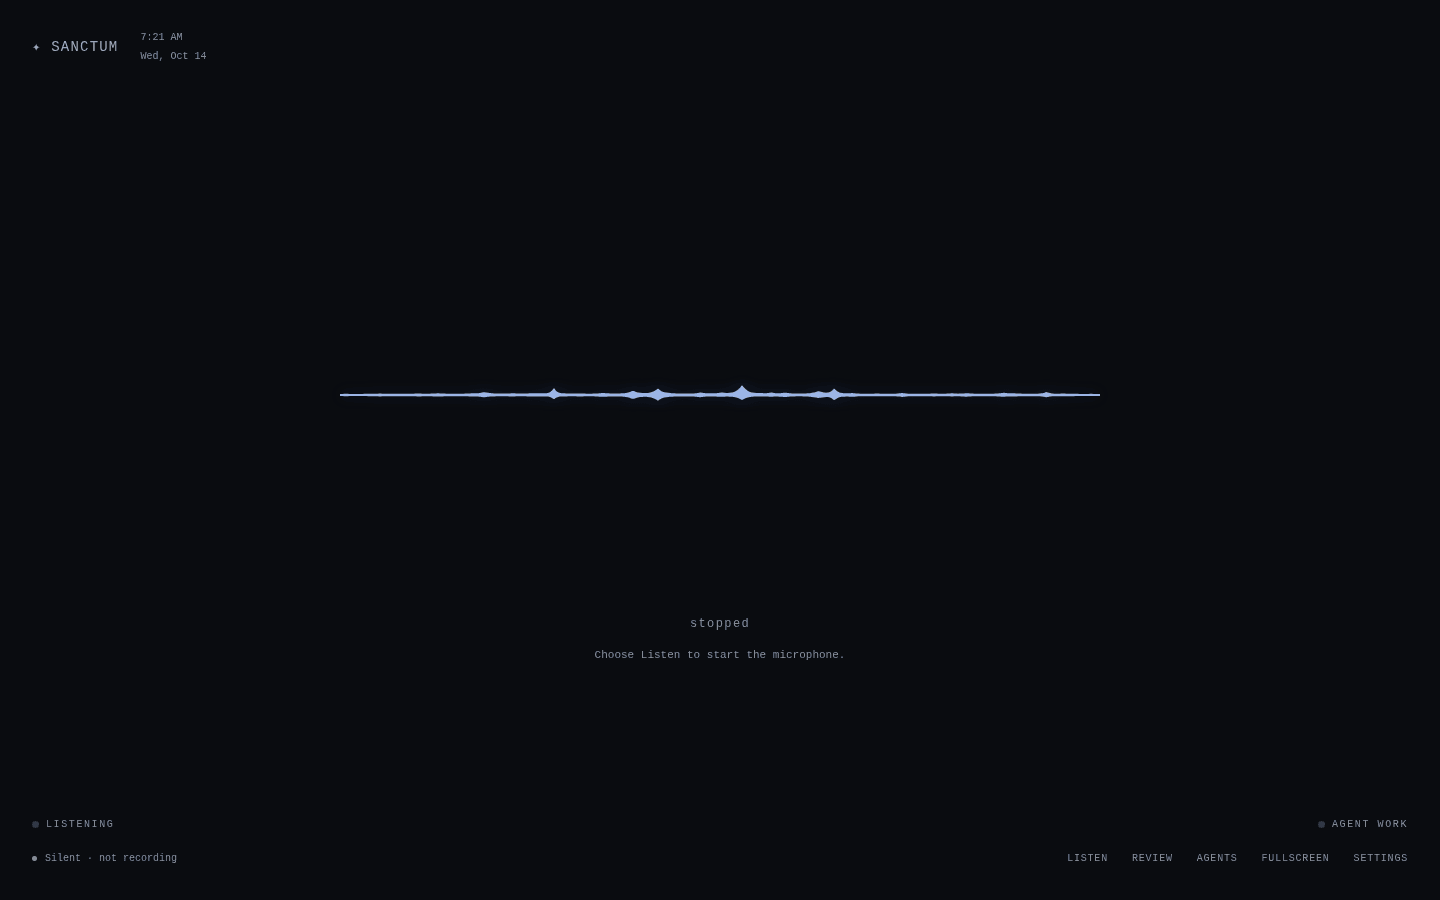
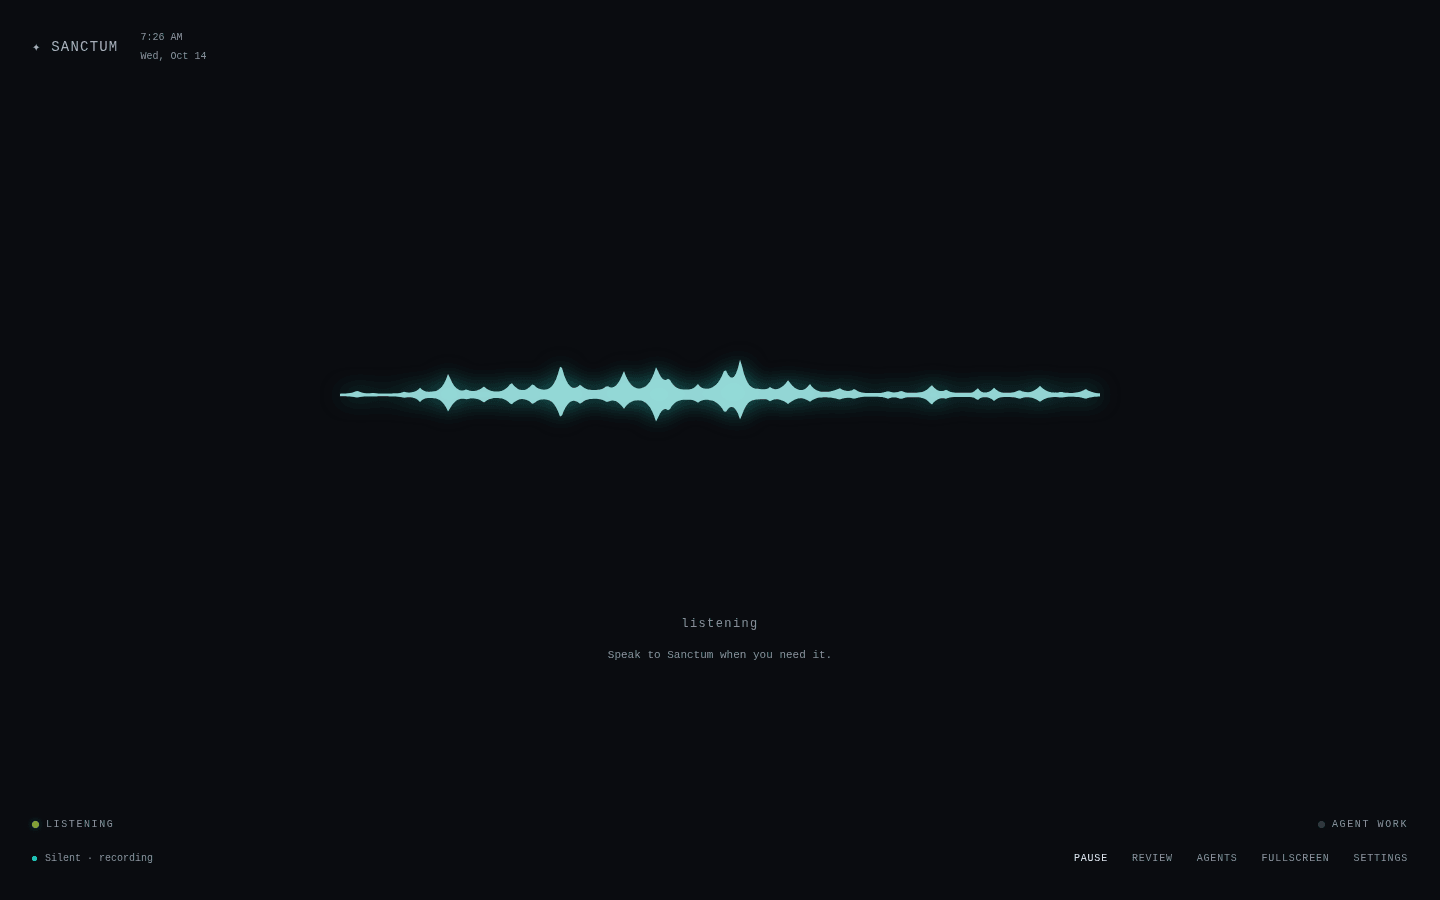
docs: show the recording Listen screen in README

Changed region(s): [[0.25, 0.4044, 0.75, 0.4667], [0.4375, 0.6844, 0.5625, 0.7467], [0.0938, 0.9333, 0.125, 0.9644]]

diff --git a/README.md b/README.md
@@ -13,9 +13,9 @@
 
 [Try it](https://sanctum.42nights.dev) · [Self-host](#self-host) · [Docs](https://i098.github.io/sanctum/) · [Changelog](CHANGELOG.md) · [Contribute](CONTRIBUTING.md)
 
-<img src="docs/images/listen.png" alt="The Sanctum Listen screen: a quiet blue waveform on a dark background, with Listen, Review, Agents, Fullscreen and Settings at the bottom">
+<img src="docs/images/listen.png" alt="The Sanctum Listen screen while recording: a lively teal waveform on a dark background, with Pause, Review, Agents, Fullscreen and Settings at the bottom">
 
-*The Listen screen: fullscreen, silent, and not recording until you choose Listen.*
+*The Listen screen while recording: fullscreen and silent, with the waveform following the live microphone.*
 
 </div>
 
